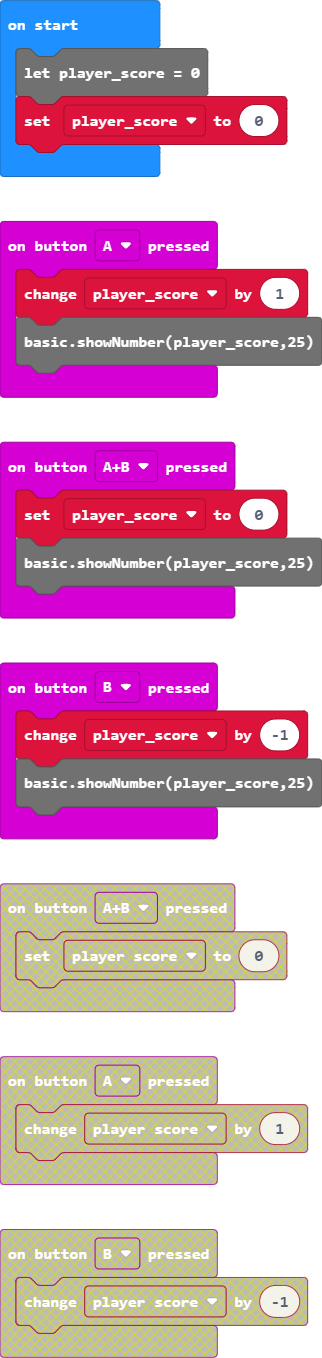
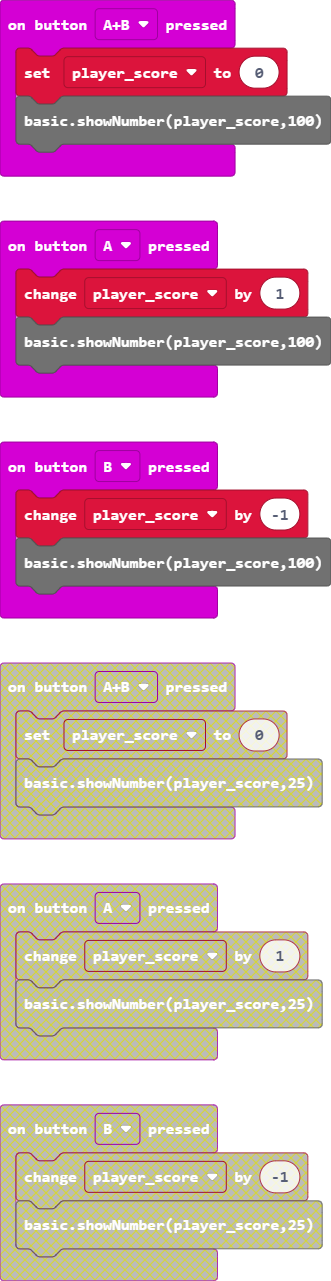
Update main.blocks, main.ts

diff --git a/main.ts b/main.ts
@@ -1,14 +1,14 @@
 input.onButtonPressed(Button.A, function () {
     player_score += 1
-    basic.showNumber(player_score,25)
+    basic.showNumber(player_score,100)
 })
 input.onButtonPressed(Button.AB, function () {
     player_score = 0
-    basic.showNumber(player_score,25)
+    basic.showNumber(player_score,100)
 })
 input.onButtonPressed(Button.B, function () {
     player_score += -1
-    basic.showNumber(player_score,25)
+    basic.showNumber(player_score,100)
 })
 let player_score = 0
 player_score = 0
